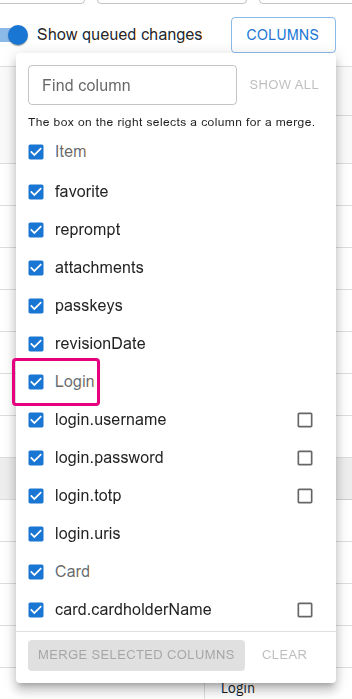
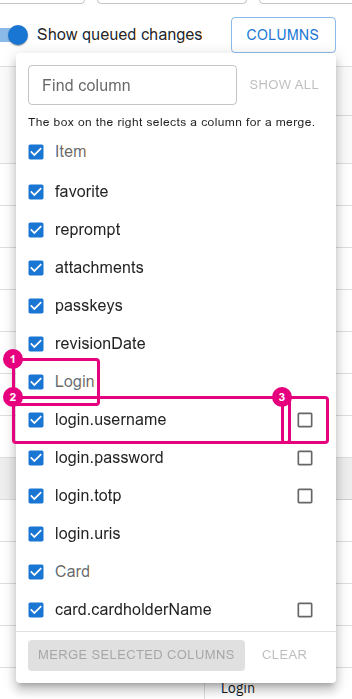
Explain both boxes of the column chooser

Changed region(s): [[0.0, 0.4807, 0.9375, 0.6609]]

diff --git a/backend/tests/e2e/docs/test_column_chooser.py b/backend/tests/e2e/docs/test_column_chooser.py
@@ -1,8 +1,13 @@
-"""The column chooser with its group checkboxes (docs/spec.md, Grid, the Columns button)."""
+"""The column chooser with its two boxes per column (docs/spec.md, Grid, the Columns button): the
+checkbox on the left shows or hides the column, the box on the right selects it for a merge."""
+
+import re
 
 from playwright.sync_api import Page, expect
 
 from tests.support.docs_shots import shot
+
+COLUMN = "login.username"
 
 
 def test_column_chooser(unlocked_page: Page) -> None:
@@ -11,8 +16,18 @@ def test_column_chooser(unlocked_page: Page) -> None:
     button = page.get_by_role("button", name="Columns", exact=True, include_hidden=True)
     button.click()
     chooser = page.locator(".MuiPopover-paper").filter(has=page.get_by_label("Find column"))
-    login = chooser.get_by_role("group", name="Login").locator("label").first
+    group = chooser.get_by_role("group", name="Login")
+    login = group.locator("label").first
     expect(login).to_be_visible()
+    shown = group.locator("label").filter(has_text=re.compile(f"^{re.escape(COLUMN)}$"))
+    merge = group.get_by_role("checkbox", name=f"Select {COLUMN} for merge")
+    expect(merge).not_to_be_checked()
     ## the end of the Item group, then Login and its first columns
     login.evaluate("e => e.scrollIntoView({block: 'center'})")
-    shot(page, "column-chooser", frame="box", around=[button, chooser], highlight=[login])
+    shot(
+        page,
+        "column-chooser",
+        frame="box",
+        around=[button, chooser],
+        highlight=[(login, "1"), (shown, "2"), (merge, "3")],
+    )

diff --git a/docs/how-to/show-hide-columns.md b/docs/how-to/show-hide-columns.md
@@ -1,19 +1,34 @@
 # Show or hide columns
 
 The Columns button above the grid opens the column chooser. It lists every
-column under its group (Item, Login, Card, Identity, SSH key, Custom fields),
-each with a checkbox that shows or hides it.
+column under its group (Item, Login, Card, Identity, SSH key, Custom fields).
+Each column has two boxes: the checkbox on the left shows or hides it, the box
+on the right selects it for a merge.
 
-![The column chooser with the checkbox of the Login group outlined](../images/column-chooser.png)
+![The column chooser with the Login group's checkbox outlined as 1, the checkbox of login.username as 2 and the box on the right of login.username as 3](../images/column-chooser.png)
 
-- Tick or untick a column's checkbox to show or hide it. `name` can never be
-  hidden.
-- Tick or untick a group's heading, like Login here, to show or hide the
-  whole group in one click. It is checked while every column of the group is
+## Show or hide a column
+
+- Tick or untick the checkbox on the left of a column (2 in the picture) to
+  show or hide it. `name` can never be hidden.
+- Tick or untick a group's heading (1, Login here) to show or hide the whole
+  group in one click. It is checked while every column of the group is
   shown, unchecked while none is, and half checked in between.
 - Type in Find column to narrow the list. A group's checkbox then acts only
   on the columns the search lists.
 - Click Show all to bring every hidden column back.
 
-The box on the right of a column selects it for Merge selected columns (see
-[Toolbar](../reference/ui.md#toolbar) in The web UI).
+## Select columns for a merge
+
+The box on the right of a column (3 in the picture) selects it for Merge
+selected columns, at the bottom of the chooser. It does not show or hide
+anything, and a column that cannot be merged (such as `login.uris`) has
+none.
+
+1. Tick the box on the right of each column to merge, two or more. They may
+   be in different groups, and Find column helps to find them.
+2. Click Merge selected columns. Merge columns opens, where you pick the
+   Target column that keeps the values.
+
+Clear unticks every box on the right. Select for merge in a column's header
+menu ticks the same box (see [Header menu](../reference/ui.md#header-menu)).
